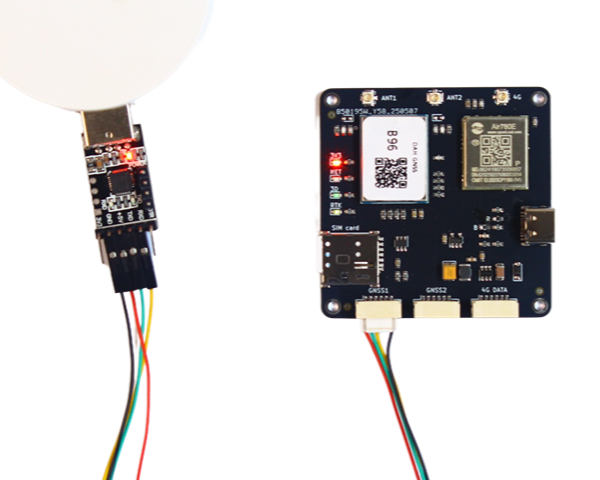
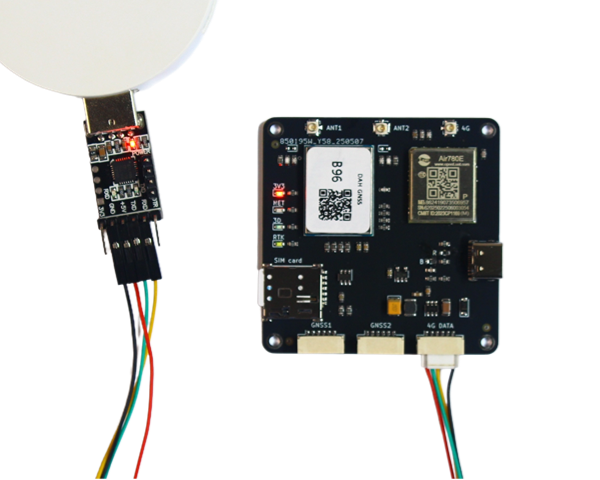
更正了B96文字错误和配图错误。

Changed region(s): [[0.42, 0.1562, 0.93, 1.0], [0.09, 0.1562, 0.27, 1.0]]

diff --git a/docs/b96/b96.md b/docs/b96/b96.md
@@ -165,7 +165,7 @@ AT*SERVER2=1,88.88.88.88,14550
 Type-C接口和3个GH1.25 6pin插座的VCC有隔离，但安全起见请勿同时供电。
 ### 2.GNSS天线
 &emsp;&emsp;B96的GNSS天线要求支持相应的频段，通常情况下要求全频天线或双频天线。注意如果天线不支持某一频段，则B96也无法接收对应频段的信号。<br>
-&emsp;&emsp;如果天线确认无误，请检查天线周边是否有遮挡。通常天线架设在窗边或者半边高楼遮挡的环境会导致B74一直处于3D定位状态，无法进入RTK fix，即使NTRIP服务器访问正常并已收到差分数据。因此初次测试时请尽量选择开阔环境，先确认板卡工作正常。
+&emsp;&emsp;如果天线确认无误，请检查天线周边是否有遮挡。通常天线架设在窗边或者半边高楼遮挡的环境会导致B96一直处于3D定位状态，无法进入RTK fix，即使NTRIP服务器访问正常并已收到差分数据。因此初次测试时请尽量选择开阔环境，先确认板卡工作正常。
 ### 3.	4G天线
 &emsp;&emsp;B96配件中附带2种4G天线，FPC天线（小和轻）和胶棒天线（大和重）。FPC天线增益较低，胶棒天线增益高，用户可以根据4G信号的强度选择使用。大多数情况下FPC天线都能胜任。<br>
 <br>
